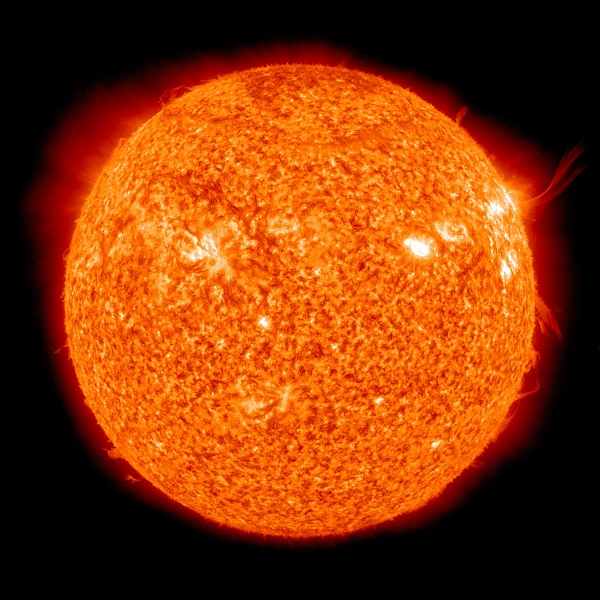
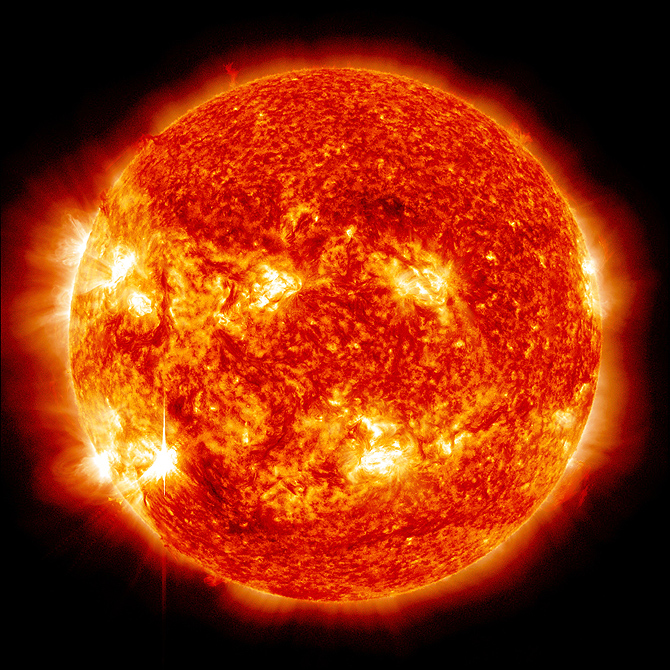
added more planets
1. jupiter, saturn, uranus added
2. planet/sun orbits and characteristics updated
3. made the stars brighter

diff --git a/src/SolarSystemMain.java b/src/SolarSystemMain.java
@@ -9,16 +9,14 @@ import java.io.File;
 
 public class SolarSystemMain extends JPanel
 {
-    // instance variables - replace the example below with your own
     GameCanvas canvas;
-    Planet[] planets = new Planet[6];
-    boolean[] planetDescVisible = new boolean[6];
-    //x, y, velX, velY, mass, diameter, color, orbitspeed
-    //Planet m1 = new Moon(780, 400, 0, 2.6, 99, 6, new Color(255,0,25), 200);
-    Planet s = new Planet(600, 400, .1, 0, 1000, 25, Color.ORANGE, 0);
+    Planet[] planets = new Planet[9];
+    boolean[] planetDescVisible = new boolean[9];
+    //x, y, velX, velY, mass, diameter, color, orbit-speed
+    
     double scale = 1;
     boolean paused = false;
-    BufferedImage[] bimgs = new BufferedImage[6];
+    BufferedImage[] bimgs = new BufferedImage[9];
     String[][] planetDesc;
     int selected = -1;
     
@@ -28,16 +26,18 @@ public class SolarSystemMain extends JPanel
      */
     public SolarSystemMain()
     {
-          //img1 = new ImageIcon(Toolkit.getDefaultToolkit().getImage("Pluto.gif")).getImage();
           canvas = new GameCanvas();
           canvas.setPreferredSize(new Dimension(1200, 800));
           add(canvas);
-            planets[0] = new Planet(600, 450, -4.7, -3, 999, 8, Color.GRAY, 1000);
-            planets[1] = new Planet(752, 400, 0, 2.5, 999, 12, Color.PINK, 1000);
-            planets[2] = new Planet(600, 150, 1.8, 0, 999, 11, Color.BLUE, 2000);
-            planets[3] = new Planet(600, -100, 1.2, 0, 999, 7, Color.RED, 2000); 
-            planets[4] = new Planet(0, 400, 0, -1.3, 999, 13, Color.CYAN, 2000);
-            planets[5] = s;
+            planets[0] = new Planet(600, 450, -4.7, 0, 999, 8, Color.GRAY, 1000); //Mercury
+            planets[1] = new Planet(752, 400, 0, 2.5, 999, 12, Color.PINK, 1000); //Venus
+            planets[2] = new Planet(600, 150, 1.8, 0, 999, 11, Color.BLUE, 2000); //Earth
+            planets[3] = new Planet(650, -50, 1.2, 0, 999, 7, Color.RED, 2000); //Mars
+            planets[4] = new Planet(600, -100, 1.2, 0, 999, 20, new Color(255,140,0), 2000); //Jupiter
+            planets[5] = new Planet(600, -150, 1.2, 0, 999, 15, new Color(112,128,144), 2000); //Saturn
+            planets[6] = new Planet(600, -175, 1.2, 0, 999, 15, new Color(196,233,238), 2000); //Uranus
+            planets[7] = new Planet(0, 400, 0, -1.2, 999, 13, Color.CYAN, 2000);//Neptune
+            planets[8] = new Planet(600, 400, .1, 0, 1000, 30, Color.ORANGE, 0);//Sun
             
             planetDesc = new String[][]{ 
                             {"Mercury","Diameter: " + planets[0].diameter*1058+ " kilometers",
@@ -71,14 +71,29 @@ public class SolarSystemMain extends JPanel
                                 "Average Day Length: .8 Earth Days",
                                 "Terrestrial planet with metallic core",
                                 "Supports life"},
-                            {"Neptune","Diameter: " + planets[4].diameter*1058+ " kilometers",
+                            {"Jupiter","Diameter: " + planets[4].diameter*1058+ " kilometers",
+                                    "Mass: 14.9 Earth Mass",
+                                    "Atmosphere Type: Thin",
+                                    "Average Temperature: -210°C",
+                                    "Seasonal Range: -225°C to -195°C",
+                                    "Average Day Length: .6 Earth Days",
+                                    "Gas Giant with dense gassy core"},
+                                {"Saturn","Diameter: " + planets[5].diameter*3058+ " kilometers",
+                                    "Mass: 300000 Earth Mass",
+                                    "Average Temperature: 5083°C",
+                                    "Yellow Dwarf, Main-sequence Star"}, 
+                                {"Uranus","Diameter: " + planets[6].diameter*3058+ " kilometers",
+                                        "Mass: 300000 Earth Mass",
+                                        "Average Temperature: 5083°C",
+                                        "Yellow Dwarf, Main-sequence Star"},
+                            {"Neptune","Diameter: " + planets[7].diameter*1058+ " kilometers",
                                 "Mass: 14.9 Earth Mass",
                                 "Atmosphere Type: Thin",
                                 "Average Temperature: -210°C",
                                 "Seasonal Range: -225°C to -195°C",
                                 "Average Day Length: .6 Earth Days",
                                 "Gas Giant with dense gassy core"},
-                            {"Sun","Diameter: " + planets[5].diameter*3058+ " kilometers",
+                            {"Sun","Diameter: " + planets[8].diameter*3058+ " kilometers",
                                 "Mass: 300000 Earth Mass",
                                 "Average Temperature: 5083°C",
                                 "Yellow Dwarf, Main-sequence Star"},
@@ -88,8 +103,11 @@ public class SolarSystemMain extends JPanel
           bimgs[1] = loadImage("Venus.jpg");
           bimgs[2] = loadImage("bluemarble.jpg");
           bimgs[3] = loadImage("mars.jpg");
-          bimgs[4] = loadImage("neptune.jpg");
-          bimgs[5] = loadImage("sun.jpg");
+          bimgs[4] = loadImage("jupiterNasa.jpg");
+          bimgs[5] = loadImage("saturn.jpg");
+          bimgs[6] = loadImage("uranus.jpg");
+          bimgs[7] = loadImage("neptune.jpg");
+          bimgs[8] = loadImage("sun.jpg");
           
           
           setBackground(Color.BLACK);
@@ -134,7 +152,7 @@ public class SolarSystemMain extends JPanel
                 //s.move();
                 for(int i = 0; i < planets.length-1; i++)
                 {
-                    planets[i].update(s.getX(),s.getY(),s.getMass());
+                    planets[i].update(planets[8].getX(),planets[8].getY(),planets[8].getMass());
                 }
             }
          // Refresh the display
@@ -184,7 +202,7 @@ public class SolarSystemMain extends JPanel
          //following code is for creating stars - will need to work on them pausing
          Random r = new Random();
          for(int count=0;count<=100;count++) {
-        	 g.setColor(Color.LIGHT_GRAY); 
+        	 g.setColor(Color.WHITE); 
         	 g.drawOval(r.nextInt(1500),r.nextInt(1500),1,1);
         	 }
          //

diff --git a/src/Planet.java b/src/Planet.java
@@ -100,7 +100,7 @@ public class Planet
         g.setFont(new Font("Dialog", Font.PLAIN, 16));
         g.setColor(Color.MAGENTA);
         
-        g.drawString((Math.round(dist*100.0)/100.0) * 1000000 + " kilometers from the Sun", 
+        g.drawString((Math.round(dist*100.0)/100.0) * 1000000 + " km", 
                     diameter+(int)(600+(x-diameter/2-600)*scale), 16+(int)(400+(y-diameter/2-400)*scale)+diameter);
         
     }
